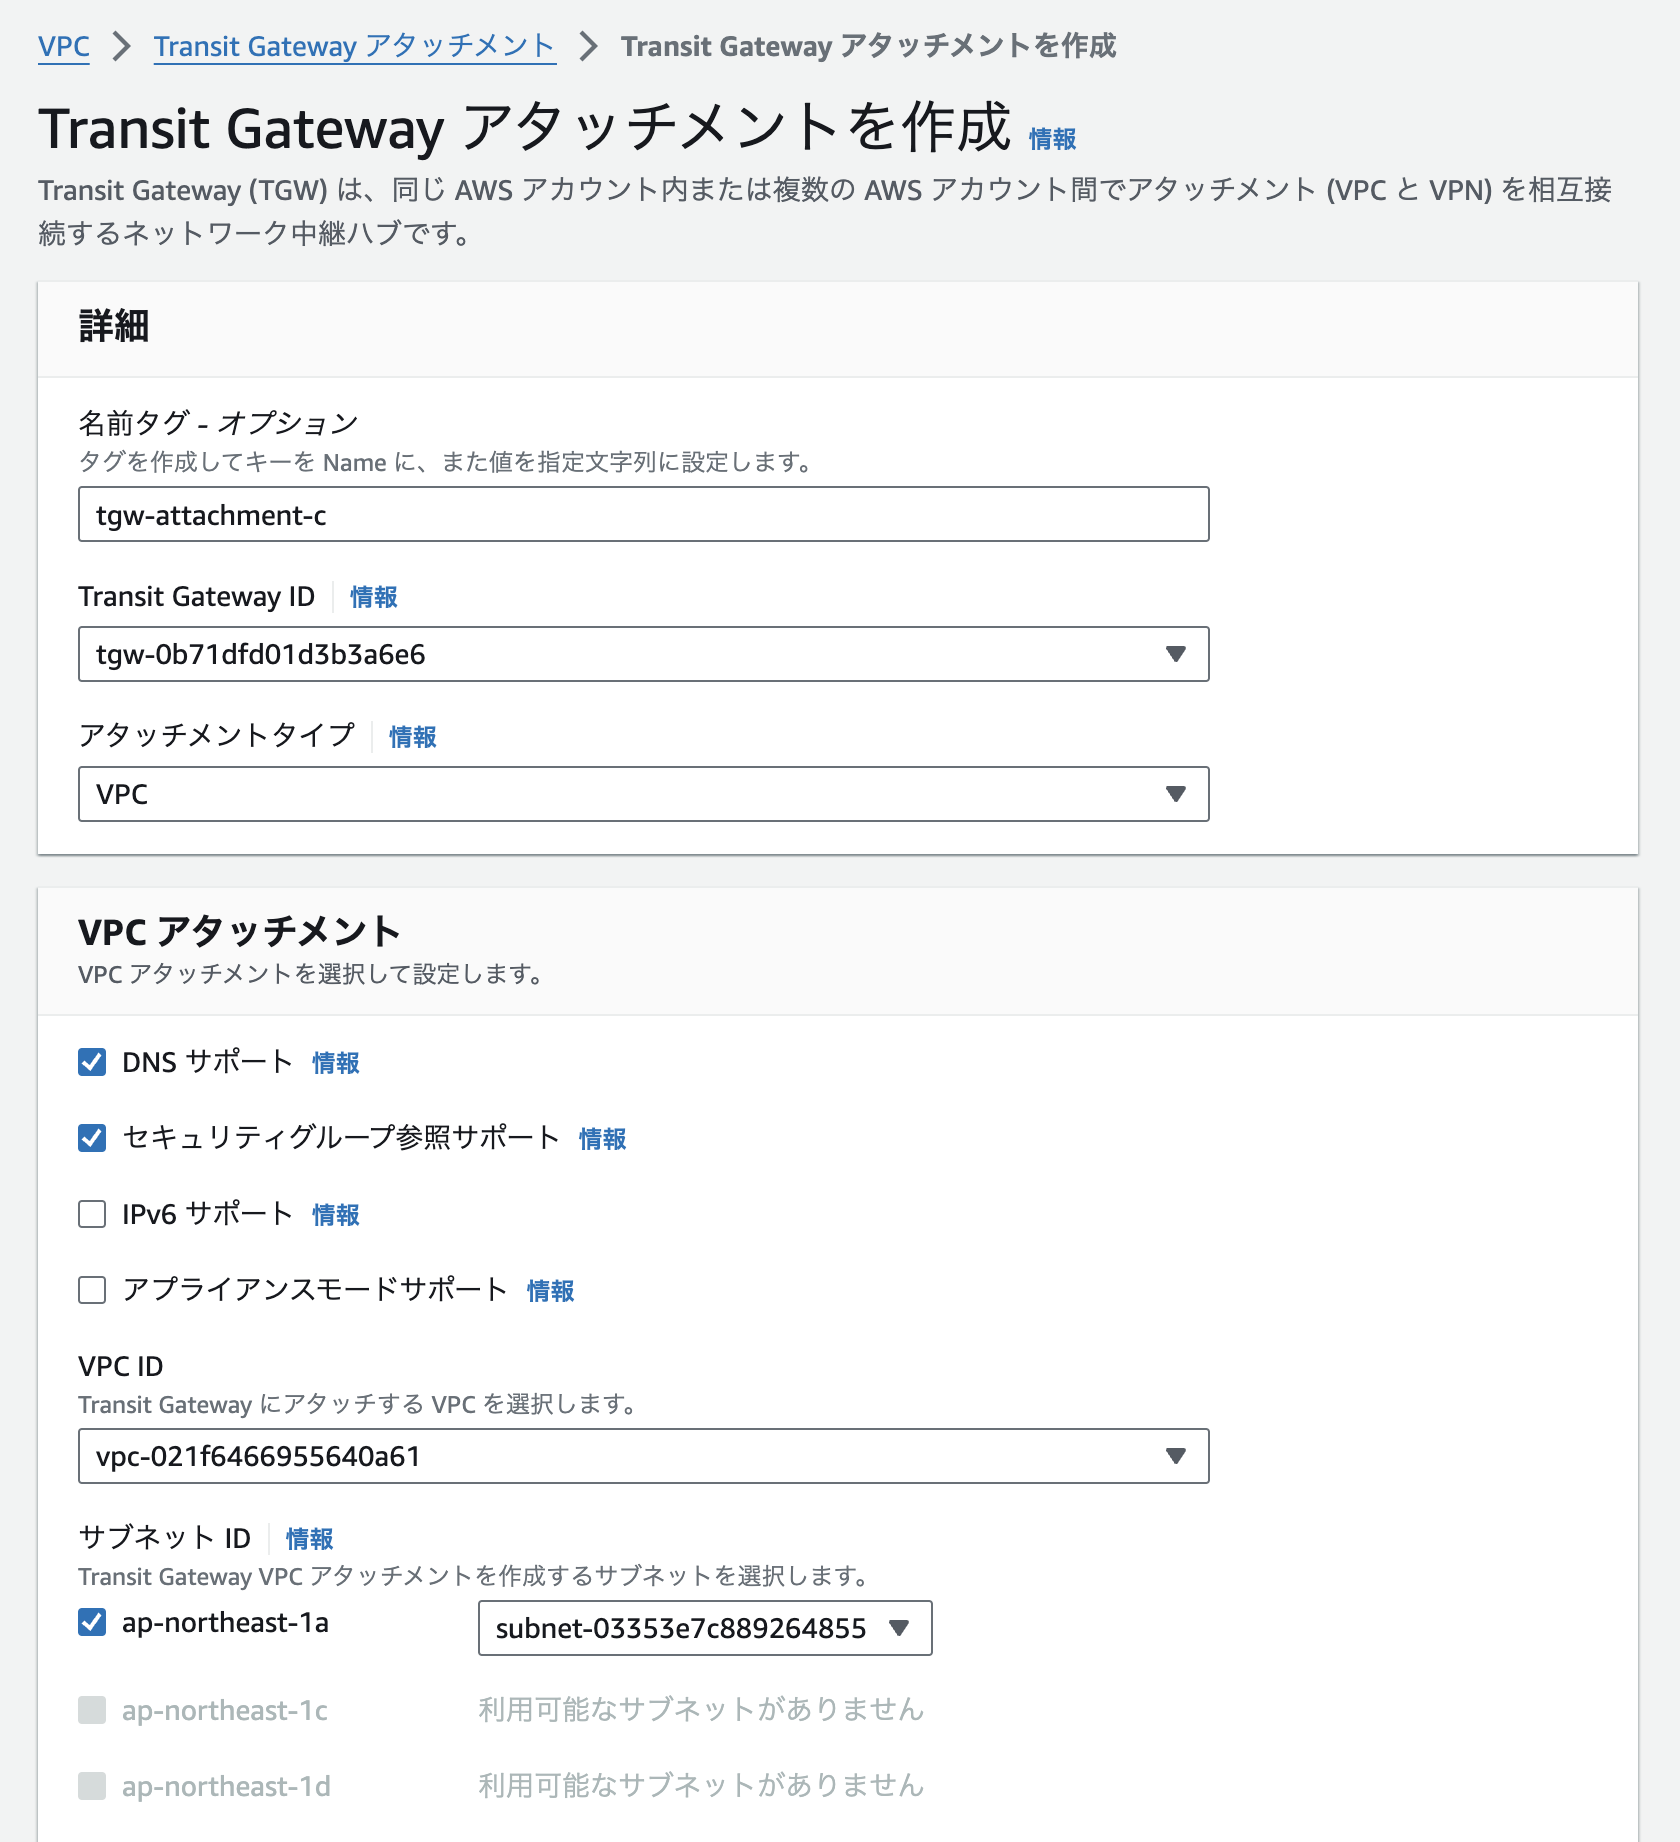
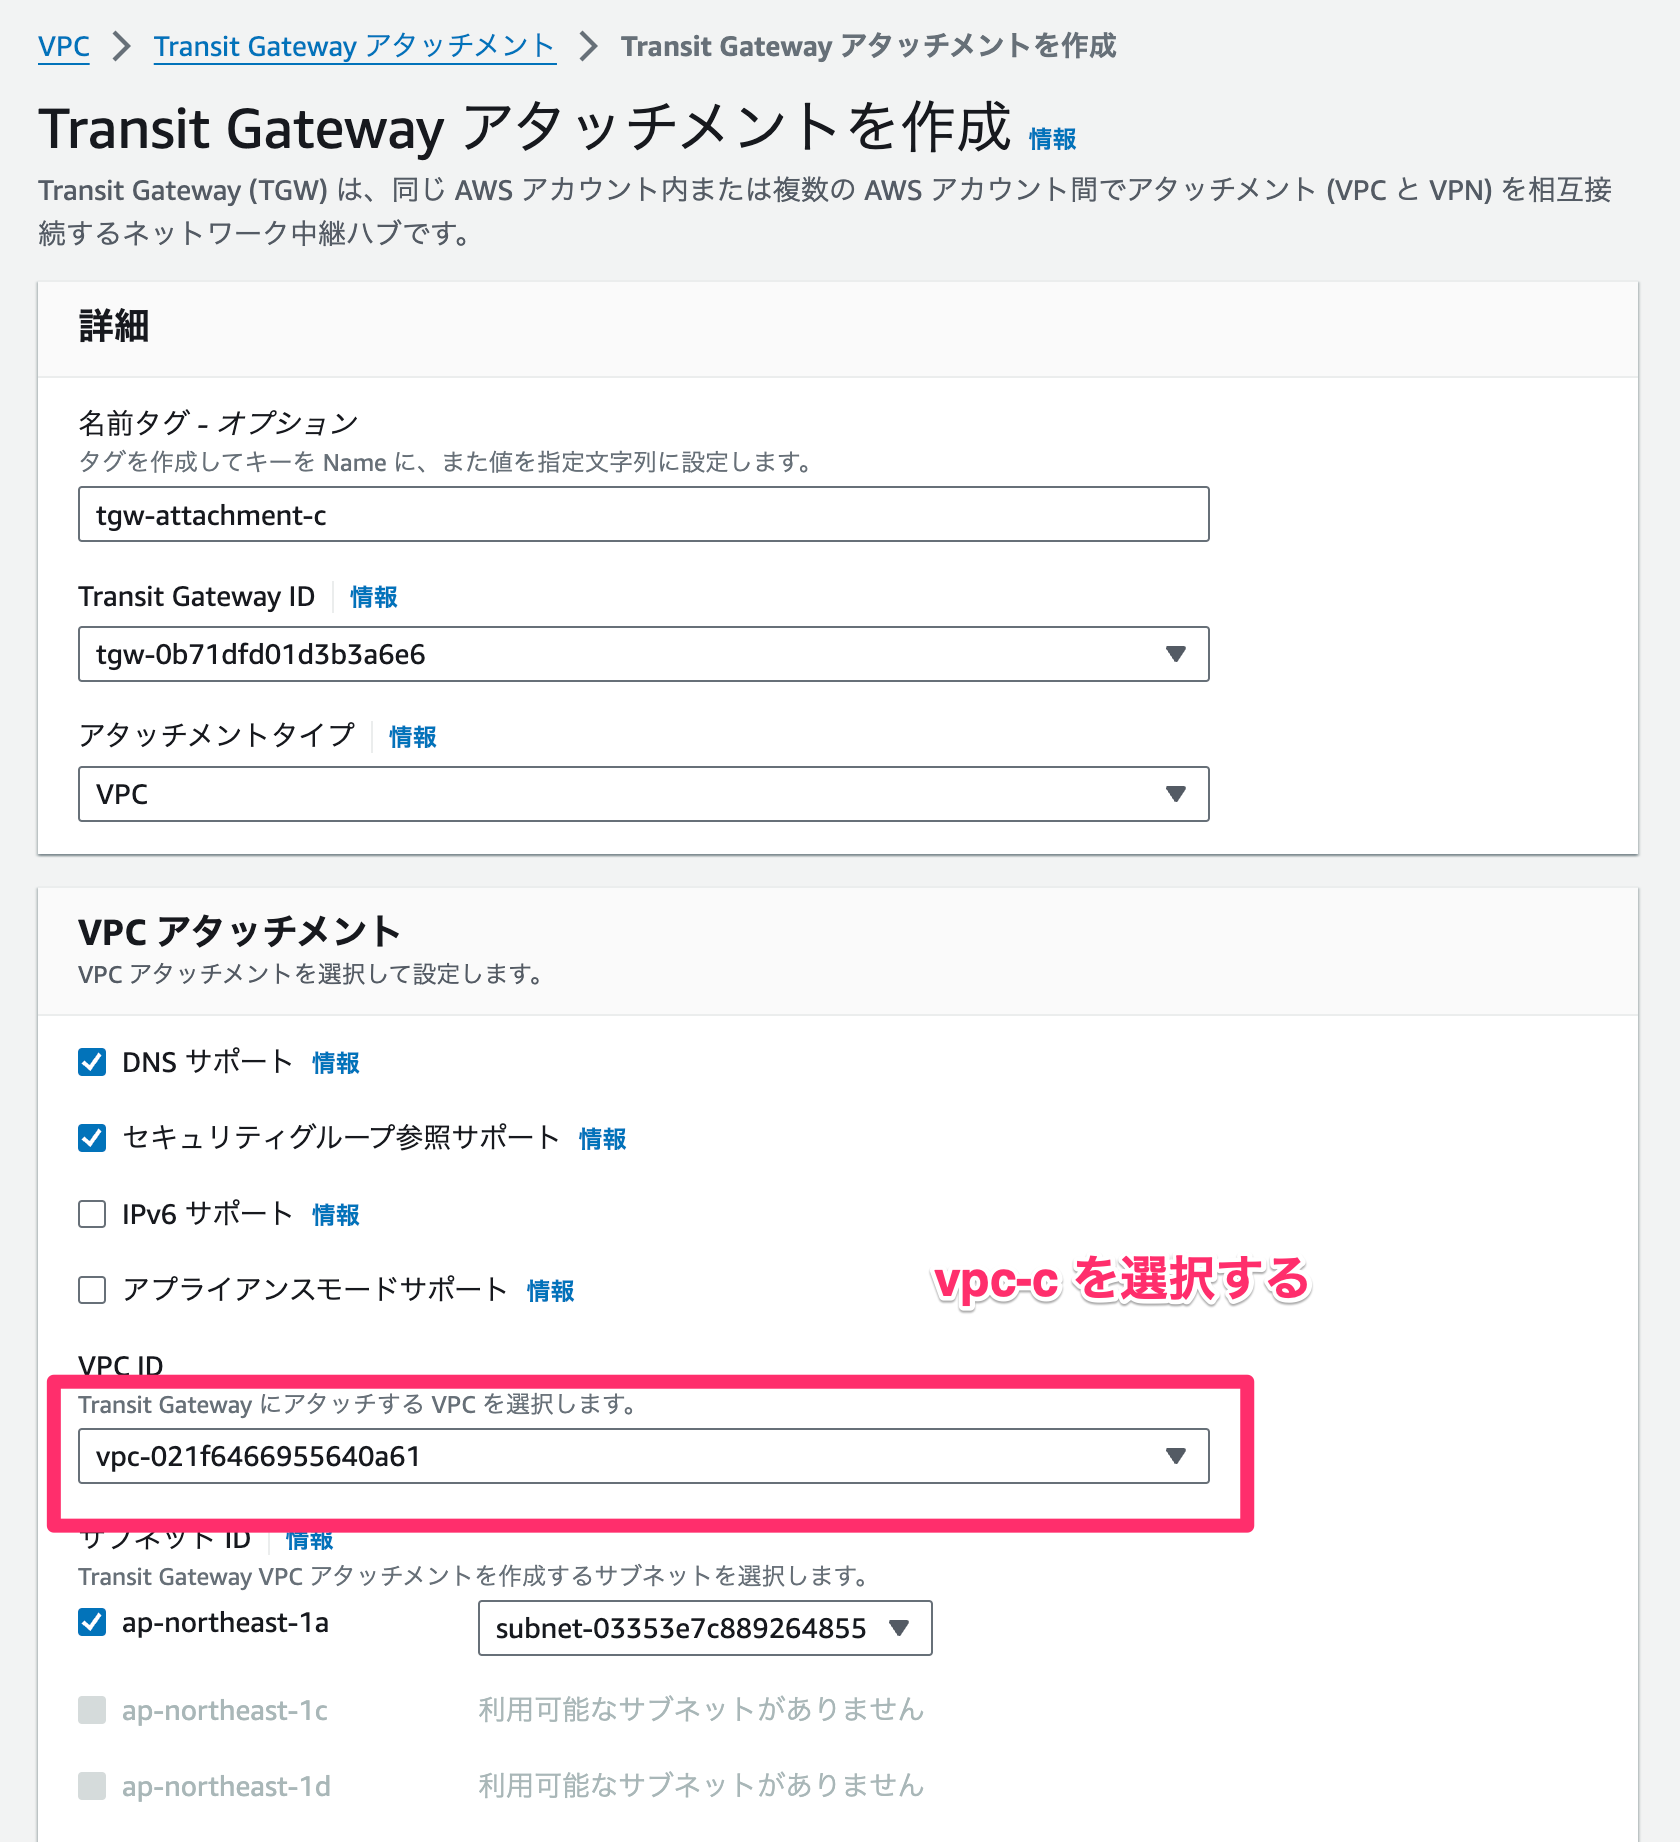
fix handson

diff --git a/handson/01-TGW.md b/handson/01-TGW.md
@@ -38,23 +38,29 @@ EC2 をデプロイします。
 
 ### Transit Gateway アタッチメントを作成
 
+左ペインから Transit Gateway アタッチメント選択し、[Transit Gateway アタッチメントを作成]をクリックします。
+
 ![01-04](../images/01-04.png)
 
-アタッチメントCを作成
+vpc-c の Transit Gateway アタッチメントを作成します。VPC ID で vpc-c を選択します。
 
 ![01-04-c](../images/01-04-c.png)
 
-同じようにdを作成
+同じように vpc-d の Transit Gateway アタッチメントを作成します。
 
 ![01-04-d](../images/01-04-d.png)
 
+作成したら以下の通りに表示されます。Transit Gateway を作成時にデフォルトルートテーブルの関連付けを行っていないため、関連付けルートテーブル ID が空であることを確認します。
+
 ![01-04-n](../images/01-04-n.png)
-
-
 
 ### Transit Gateway ルートテーブルを作成
 
+左ペインから Transit Gateway ルートテーブルを選択し、[Transit Gateway ルートテーブルを作成]をクリックします。
+
 ![05](../images/05.png)
+
+アタッチメント C と D 用にそれぞれ作成します。
 
 ![05-1](../images/05-1.png)
 
@@ -62,40 +68,65 @@ EC2 をデプロイします。
 
 ### Transit Gateway ルートテーブル更新
 
+作成したルートテーブルにルート情報を設定します。
+Transit Gateway ルートテーブル C（tgw-rt-c）を選択した状態で、タブ[ルート]を選択し、[ルートを作成]をクリックします。
+
 ![05-3](../images/05-3.png)
 
+宛先の Cidr として vpc-d の Cidr（ここでは 10.3.0.0/16）を入力、アタッチメントに tgw-attachmentd-d を選択し、静的ルートを作成します。
+
 ![05-4](../images/05-4.png)
+
+続いて同じように Transit Gateway ルートテーブル D（tgw-rt-d）のルートを設定します。
+宛先の Cidr として vpc-c の Cidr（ここでは 172.16.0.0/24）を入力、アタッチメントに tgw-attachmentd-c を選択し、静的ルートを作成します。
 
 ![05-5](../images/05-5.png)
 
 ### Transit Gateway ルートテーブル関連付け
 
+作成した Transit Gateway ルートテーブルをアタッチメントに関連付けます。
+Transit Gateway ルートテーブル C（tgw-rt-c）を選択した状態で、タブ[関連付け]を選択し、[関連付けを作成]をクリックします。
+
 ![06-01](../images/06-01.png)
+
+Transit Gateway アタッチメント C（tgw-attachment-c）を選択して、関連付けを作成します。
 
 ![06-02](../images/06-02.png)
 
+同じ用に Transit Gateway アタッチメント D（tgw-attachment-d）を選択して、関連付けを作成します。
+
 ![06-03](../images/06-03.png)
 
+作成すると、関連付けのルートテーブル ID にルートテーブル情報が入っていることを確認できます。
 ![06-04](../images/06-04.png)
 
 ### VPC ルートテーブルを更新
 
+最後に VPC のルートテーブルを更新します。
+左ペインから仮想プライベートクラウドのルートテーブルを開きます。
+vpc-c のルートテーブル（demo-rtb-c）を選択し、タブ[ルート]を開きます。
+
 ![07-01](../images/07-01.png)
+
+送信先に VPC-d の Cidr `10.3.0.0/16`、ターゲットに tgw-attachment-c を選択します。
 
 ![07-02](../images/07-02.png)
 
 ![07-03](../images/07-03.png)
 
+vpc-d のルートテーブルにも同じように設定します。
+送信先に VPC-c の Cidr `172.16.0.0/24`、ターゲットに tgw-attachment-d を選択します。
+
 ![07-04](../images/07-04.png)
 
 ### 疎通確認
 
-EC2-c のセッションマネージャーからEC2-dのプライベートIPアドレスにcurlで接続し、疎通できることを確認する。
+EC2-c のセッションマネージャーから EC2-d のプライベート IP アドレスに curl で接続し、疎通できることを確認します。
 
 ![07-05](../images/07-05.png)
 
 
-## CloudFormation で Transit Gatewayを作りたいとき
+## CloudFormation で Transit Gateway と周辺リソースを作りたいとき
 
 ```
 ./cfn.sh deploy 03 

diff --git a/README.md b/README.md
@@ -1,4 +1,4 @@
-# AWS SAM DynamoDB to SNS Lambda Function
+# Transit Gateway と Private Link の構築
 
 Transit Gateway と Private Link を使った構成のハンズオンを含めたサンプルです。
 
